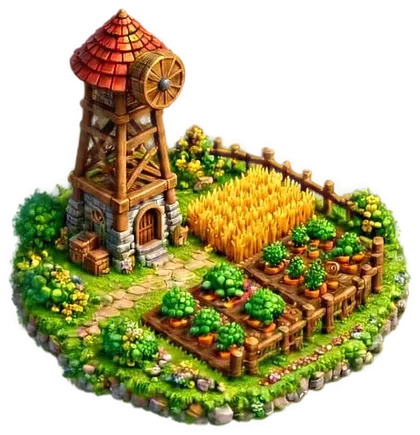
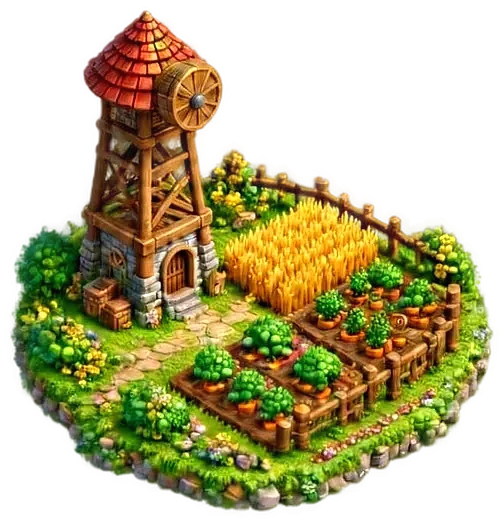
建築外觀商店：5棟建築×萌獸7種樣式，金幣/鑽石購買、可切換、好友看得到；裝飾店改用遊樂場圖；後台可調外觀價格
Claude-Session: https://claude.ai/code/session_011E9LWKbRev5CpXJ2t3WaU7

Changed region(s): [[0.2786, 0.0598, 0.3095, 0.0897]]

diff --git a/index.html b/index.html
@@ -301,6 +301,10 @@ body.lowfx .bird{display:none}
 @keyframes evoShow{to{opacity:1}}
 .evo-txt .btn{margin-top:16px;opacity:0;pointer-events:none;animation:evoShow .4s 3.3s forwards}
 .evo-txt .btn{pointer-events:auto}
+.sktabs{flex-wrap:wrap}.sktabs button{flex:1 0 30%;font-size:13px}
+.skgrid{display:grid;grid-template-columns:repeat(3,1fr);gap:8px;margin-top:8px}
+.skcard{display:flex;flex-direction:column;align-items:center;gap:3px;background:#FFF8EC;border:2.5px solid #E6D9C3;border-radius:14px;padding:6px 4px 8px}
+.skcard img{width:100%;height:84px;object-fit:contain}.skcard b{font-size:13px}.skcard.on{border-color:#3BB273;background:#E8F8EE}
 </style>
 </head>
 <body>
@@ -541,7 +545,19 @@ function sprite(name, gx, gy, w, opt={}){
   const yy = y - h*(opt.foot ?? 0.82);
   return `<image href="${A(name)}" x="${(x-w/2).toFixed(1)}" y="${yy.toFixed(1)}" width="${w}" height="${h.toFixed(1)}" ${opt.cls?`class="${opt.cls}"`:''}/>`;
 }
-const RATIO = {bf_train:564/504, b_shop:690/627, b_farm:522/504, b_academy:690/645, bc_shop:690/594, b_fountain:690/591, b_sail:1,
+/* 建築外觀（萌獸 7 種樣式） */
+const SKIN_R = {"b_academy": 1.0702, "bb_academy": 1.115, "bc_academy": 1.25, "bf_academy": 1.115, "bi_academy": 1.1918, "bj_academy": 1.113, "bl_academy": 1.115, "b_farm": 1.0357, "bb_farm": 1.0317, "bc_farm": 1.0793, "bf_farm": 1.0556, "bi_farm": 1.1327, "bj_farm": 1.0575, "bl_farm": 1.0575, "b_shop": 1.0997, "bb_shop": 1.1268, "bc_shop": 1.1615, "bf_shop": 1.115, "bi_shop": 1.1388, "bj_shop": 1.1189, "bl_shop": 1.1348, "b_fountain": 1.1679, "bb_fountain": 1.1532, "bc_fountain": 1.1228, "bf_fountain": 1.147, "bi_fountain": 1.1429, "bj_fountain": 1.1449, "bl_fountain": 1.1615, "b_train": 1.0774, "bb_train": 1.1151, "bc_train": 1.0884, "bf_train": 1.119, "bi_train": 1.1348, "bj_train": 1.119, "bl_train": 1.1369, "b_play": 1.1599};
+const SKIN_PART = {home:'academy', barn:'farm', shop:'shop', fountain:'fountain', pen:'train'};
+const SKIN_DEF = {home:'b', barn:'b', shop:'b', fountain:'b', pen:'bf'};
+const SKIN_NAME = {b:'原版', bb:'紅磚', bc:'糖果', bf:'森林', bi:'冰雪', bj:'翡翠', bl:'熔岩'};
+const skinImg = (k, st) => (st||SKIN_DEF[k]) + '_' + SKIN_PART[k];
+function skinSprite(k, gx, gy, w, foot){ const [x,y]=iso(gx,gy), img=skinImg(k), h=w*(SKIN_R[img]||1);
+  return `<image class="skin" data-sk="${k}" data-fy="${y}" data-w="${w}" data-foot="${foot}" href="${A(img)}" x="${(x-w/2).toFixed(1)}" y="${(y-h*foot).toFixed(1)}" width="${w}" height="${h.toFixed(1)}"/>`; }
+let skinSig='';
+function applySkins(on){ on=on||{}; const sig=JSON.stringify(on); if(sig===skinSig) return; skinSig=sig;
+  document.querySelectorAll('#world image.skin').forEach(el=>{ const k=el.dataset.sk, img=skinImg(k, on[k]), w=+el.dataset.w, h=w*(SKIN_R[img]||1);
+    el.setAttribute('href', A(img)); el.setAttribute('height', h.toFixed(1)); el.setAttribute('y', (+el.dataset.fy - h*(+el.dataset.foot)).toFixed(1)); }); }
+const RATIO = {b_play:1.1599, bf_train:564/504, b_shop:690/627, b_farm:522/504, b_academy:690/645, bc_shop:690/594, b_fountain:690/591, b_sail:1,
   dc_flower:1, dc_lamp:1, dc_bench:1, dc_pond:1, dc_hay:1, dc_mail:1, dc_kennel:1, dc_lantree:1, dc_swing:1, dc_sakura:1, dc_picnic:1, dc_balloon:1,
   bunny1:396/310, bear1:1, fox1:1, penguin1:1, otter1:1, mouse1:1};
 
@@ -550,7 +566,7 @@ const BLD = [
   {id:'home',  name:'我的家',   img:'b_academy',  c:HG(668,128),  w:290, foot:0.80},
   {id:'shop',  name:'種子商店', img:'b_shop',     c:HG(366,200),  w:230, foot:0.80},
   {id:'barn',  name:'穀倉',     img:'b_farm',     c:HG(930,203),  w:240, foot:0.80},
-  {id:'decor', name:'裝飾店',   img:'bc_shop',    c:HG(322,362),  w:200, foot:0.80, locked:'裝飾店將在第四階段開放'},
+  {id:'decor', name:'裝飾店',   img:'b_play',    c:HG(322,362),  w:200, foot:0.80, locked:'裝飾店將在第四階段開放'},
   {id:'coop',  name:'牧場',     img:'dc_hay',     c:HG(694,560), w:104, foot:0.78, locked:'牧場將在第四階段開放'},
   {id:'pen',   name:'萌獸園',   img:'bf_train',   c:HG(398,552), w:390, foot:0.70, locked:'萌獸園即將開放：之後多出來的萌獸會住在這裡'},
 ];
@@ -672,6 +688,7 @@ function farmerDo(i, kind){
 }
 
 function buildWorld(){
+  skinSig='';
   const W=$('world');
   W.setAttribute('viewBox',`${VX} ${VY} ${WW} ${WH}`);
   seed=11;
@@ -718,7 +735,7 @@ function buildWorld(){
   // 建築
   BLD.forEach(o=>{ if(o.skip) return;
     const [gx,gy]=o.c, h=o.w*(RATIO[o.img]||1);
-    let s = `<ellipse cx="${iso(gx,gy)[0]}" cy="${iso(gx,gy)[1]+4}" rx="${o.w*0.42}" ry="${o.w*0.16}" fill="rgba(0,0,0,.14)"/>` + sprite(o.img, gx, gy, o.w, {ratio:RATIO[o.img], foot:o.foot});
+    let s = `<ellipse cx="${iso(gx,gy)[0]}" cy="${iso(gx,gy)[1]+4}" rx="${o.w*0.42}" ry="${o.w*0.16}" fill="rgba(0,0,0,.14)"/>` + (SKIN_PART[o.id] ? skinSprite(o.id, gx, gy, o.w, o.foot) : sprite(o.img, gx, gy, o.w, {ratio:RATIO[o.img], foot:o.foot}));
     if(o.id==='barn'){ // 風車葉片
       const [x,y]=iso(gx,gy), top=y-h*o.foot; const cx=x-o.w*0.5+o.w*0.235, cy=top+h*0.2;
       s += `<g transform="translate(${cx.toFixed(1)} ${cy.toFixed(1)})"><g class="blades"><image href="${A('b_sail')}" x="-55" y="-55" width="110" height="110"/></g></g>`;
@@ -733,7 +750,7 @@ function buildWorld(){
 
   // 裝飾（萌獸星球素材）
   const deco=(n,gx,gy,w,extra='')=>objs.push({depth:gx+gy, svg:`<g ${extra}>${sprite(n,gx,gy,w,{ratio:RATIO[n],foot:0.8})}</g>`});
-  const FC=HG(645,352); deco('b_fountain', FC[0], FC[1], 150);
+  const FC=HG(645,352); objs.push({depth:FC[0]+FC[1], svg:skinSprite('fountain', FC[0], FC[1], 150, 0.8)});
   [[560,318],[730,318],[560,378],[730,378]].map(([x,y])=>HG(x,y)).forEach(([x,y])=>{ deco('dc_lamp',x,y,46); const [px,py]=iso(x,y); objs.push({depth:x+y+0.01, svg:`<circle class="lampglow" cx="${px}" cy="${py-34}" r="30" fill="url(#gGlow)"/>`}); });
   deco('dc_flower', ...HG(505,262), 58); deco('dc_flower', ...HG(845,300), 52); deco('dc_balloon', ...HG(545,470), 64, 'class="floaty"');
 
@@ -1145,7 +1162,7 @@ function gearDesc(g){ const v=+g.val, pc=Math.round(v*100);
     dog:`小偷來偷菜時 ${pc}% 被趕走`, bug:`蟲一出現 ${pc}% 自動除掉`, weed:`雜草一長出 ${pc}% 自動拔掉`,
     clear:`收成後自動整地（第 1～${v} 塊地）`, harvest:`作物成熟 ${v} 分鐘後自動收成，小偷來不及偷`,
     scare:`別人惡作劇 ${pc}% 被擋下`})[g.func] || ''; }
-function setGearConfig(list, st){ GEAR_LIST = list||[]; GEAR = {}; GEAR_LIST.forEach(g=>GEAR[g.id]=g);
+function setGearConfig(list, st, sk){ if(sk) SKINS=sk; GEAR_LIST = list||[]; GEAR = {}; GEAR_LIST.forEach(g=>GEAR[g.id]=g);
   if(st){ EVO = [+(st.evo_lv2 ?? 10), +(st.evo_lv3 ?? 20)]; } }
 const chrStage = lv => lv>=EVO[1] ? 3 : lv>=EVO[0] ? 2 : 1;
 const chrSpecies = k => (/^([a-z]+)/.exec(k||'bunny')||[0,'bunny'])[1];
@@ -1163,9 +1180,10 @@ function beastPanelHTML(){
     <div class="binfo"><b>${chrName(key)}</b><div class="bnext">${next}</div>
       <button class="gslot" id="hGear">${g?gearImg(g,34):'<span class="plus">＋</span>'}<span><b>${g?gearTitle(g):'裝備欄（空）'}</b><small>${g?`${GEAR_FUNC[g.func][1]} ${GEAR_FUNC[g.func][0]}：${gearDesc(g)}`:'點這裡插上裝備，萌獸會幫你自動做事'}</small></span></button>
     </div></div>
-    <div class="homebtns"><button class="btn sub" id="hCh">🐾 更換萌獸</button><button class="btn o" id="hGshop">🛒 買裝備</button></div>`;
+    <div class="homebtns"><button class="btn sub" id="hCh">🐾 更換萌獸</button><button class="btn o" id="hGshop">🛒 買裝備</button></div>
+    <div class="homebtns"><button class="btn" id="hSkin" style="background:#FF8FB1;box-shadow:0 3px 0 #D9628A">🏠 建築外觀</button></div>`;
 }
-function bindBeastPanel(){ $('hGear').onclick=openGearBag; $('hCh').onclick=openCharPicker; $('hGshop').onclick=()=>openGearShop(); }
+function bindBeastPanel(){ $('hSkin').onclick=()=>openSkinShop(); $('hGear').onclick=openGearBag; $('hCh').onclick=openCharPicker; $('hGshop').onclick=()=>openGearShop(); }
 
 /* 裝備背包 */
 function openGearBag(){
@@ -1241,6 +1259,27 @@ function checkEvolve(){
   let prev=null; try{ prev=+localStorage.getItem(k)||null; }catch(e){}
   if(prev && st>prev){ const sp=chrSpecies(S.me.chara); setTimeout(()=>playEvolve(sp+prev, sp+st), 900); }
   try{ localStorage.setItem(k, st); }catch(e){}
+}
+
+/* ================= 建築外觀商店 ================= */
+let SKINS = [], skinTab = 'home';
+const SKIN_BLD = {home:'我的家', barn:'穀倉', shop:'種子商店', fountain:'噴水池', pen:'萌獸園'};
+function openSkinShop(t){
+  if(mode==='visit') return toast('回到自己的農場才能換外觀');
+  if(t) skinTab=t;
+  const me=S.me, owned=me.skins||{}, on=(me.skin_on||{})[skinTab]||SKIN_DEF[skinTab];
+  const tabs=`<div class="tabs sktabs">${Object.keys(SKIN_BLD).map(k=>`<button data-skt="${k}" class="${skinTab===k?'on':''}">${SKIN_BLD[k]}</button>`).join('')}</div>`;
+  const styles=[SKIN_DEF[skinTab], ...SKINS.filter(x=>x.bld===skinTab).map(x=>x.style)];
+  const body=tabs+`<div class="skgrid">${styles.map(st=>{ const def=st===SKIN_DEF[skinTab], k=SKINS.find(x=>x.bld===skinTab&&x.style===st), have=def||owned[skinTab+'_'+st], cur=st===on;
+    const price = k ? (k.gold!=null?`${k.gold.toLocaleString()} 金`:`💎${k.gems}`) : '';
+    return `<div class="skcard${cur?' on':''}"><img src="${A('th_'+st+'_'+SKIN_PART[skinTab])}" alt=""><b>${def?'預設':(k?k.name:SKIN_NAME[st])}</b>
+      ${cur?'<span class="tag" style="background:#E8F8EE;color:#2E9660">使用中</span>':have?`<button class="mini" data-skuse="${def?'def':st}">套用</button>`:`<button class="mini ${k&&k.gems!=null?'gem':''}" data-skbuy="${k.id}" ${(k.gold!=null?me.gold<k.gold:(me.gems||0)<k.gems)?'disabled':''}>${price}</button>`}</div>`; }).join('')}</div>
+    <div class="hint" style="text-align:center;margin-top:8px">買過的外觀可以隨時免費切換，好友來拜訪也看得到</div>`;
+  modal(`建築外觀　<span style="font-size:14px;color:var(--ink2)">${me.gold.toLocaleString()} 金・💎${(me.gems||0).toLocaleString()}</span>`, body);
+  const md=$('md');
+  md.querySelectorAll('[data-skt]').forEach(b=>b.onclick=()=>openSkinShop(b.dataset.skt));
+  md.querySelectorAll('[data-skuse]').forEach(b=>b.onclick=async()=>{ try{ applyState(await rpc('farm_set_skin',{p_bld:skinTab,p_style:b.dataset.skuse})); refresh(); sfx('coin'); openSkinShop(); }catch(e){ toast(e.message); } });
+  md.querySelectorAll('[data-skbuy]').forEach(b=>b.onclick=async()=>{ try{ applyState(await rpc('farm_buy_skin',{p_id:b.dataset.skbuy})); refresh(); fxConfetti(); sfx('lvup'); toast('外觀已套用！'); openSkinShop(); }catch(e){ toast(e.message); } });
 }
 
 /* ================= 連線設定 ================= */
@@ -1680,7 +1719,7 @@ function renderHUD(){
   else h='作物正在長大中…去<b>好友布告欄</b>看看誰的菜可以偷';
   $('hint').innerHTML = `<span>🌱</span><span>${h}</span>`;
 }
-function refresh(){ renderPlots(); renderHUD(); try{ if(mode==='visit' && V) setFarmer(chrKey(V.owner.chara, V.owner.lv), V.owner.equip); else if(S) setFarmer(chrKey(S.me.chara, S.me.lv), S.me.equip); checkEvolve(); }catch(e){} }
+function refresh(){ renderPlots(); renderHUD(); try{ if(mode==='visit' && V){ setFarmer(chrKey(V.owner.chara, V.owner.lv), V.owner.equip); applySkins(V.owner.skin_on); } else if(S){ setFarmer(chrKey(S.me.chara, S.me.lv), S.me.equip); applySkins(S.me.skin_on); } checkEvolve(); }catch(e){} }
 
 /* ================= 同步 ================= */
 let syncing = false;
@@ -1766,7 +1805,7 @@ async function loadConfig(){
     const c = await rpc('farm_config');
     c.crops.forEach(x=>{ const k = CROP[x.id]; if(k) Object.assign(k, {lv:x.lv, seed:x.seed, time:x.time, yield:x.yield, price:x.price, exp:x.exp}); });
     c.land.forEach(l=>{ LAND[l.idx] = {lv:l.lv, cost:l.cost}; });
-    setGearConfig(c.gear, c.settings);
+    setGearConfig(c.gear, c.settings, c.skins);
   }catch(e){}
 }
 async function showNotices(){

diff --git a/src/town.js b/src/town.js
@@ -37,7 +37,19 @@ function sprite(name, gx, gy, w, opt={}){
   const yy = y - h*(opt.foot ?? 0.82);
   return `<image href="${A(name)}" x="${(x-w/2).toFixed(1)}" y="${yy.toFixed(1)}" width="${w}" height="${h.toFixed(1)}" ${opt.cls?`class="${opt.cls}"`:''}/>`;
 }
-const RATIO = {bf_train:564/504, b_shop:690/627, b_farm:522/504, b_academy:690/645, bc_shop:690/594, b_fountain:690/591, b_sail:1,
+/* 建築外觀（萌獸 7 種樣式） */
+const SKIN_R = {"b_academy": 1.0702, "bb_academy": 1.115, "bc_academy": 1.25, "bf_academy": 1.115, "bi_academy": 1.1918, "bj_academy": 1.113, "bl_academy": 1.115, "b_farm": 1.0357, "bb_farm": 1.0317, "bc_farm": 1.0793, "bf_farm": 1.0556, "bi_farm": 1.1327, "bj_farm": 1.0575, "bl_farm": 1.0575, "b_shop": 1.0997, "bb_shop": 1.1268, "bc_shop": 1.1615, "bf_shop": 1.115, "bi_shop": 1.1388, "bj_shop": 1.1189, "bl_shop": 1.1348, "b_fountain": 1.1679, "bb_fountain": 1.1532, "bc_fountain": 1.1228, "bf_fountain": 1.147, "bi_fountain": 1.1429, "bj_fountain": 1.1449, "bl_fountain": 1.1615, "b_train": 1.0774, "bb_train": 1.1151, "bc_train": 1.0884, "bf_train": 1.119, "bi_train": 1.1348, "bj_train": 1.119, "bl_train": 1.1369, "b_play": 1.1599};
+const SKIN_PART = {home:'academy', barn:'farm', shop:'shop', fountain:'fountain', pen:'train'};
+const SKIN_DEF = {home:'b', barn:'b', shop:'b', fountain:'b', pen:'bf'};
+const SKIN_NAME = {b:'原版', bb:'紅磚', bc:'糖果', bf:'森林', bi:'冰雪', bj:'翡翠', bl:'熔岩'};
+const skinImg = (k, st) => (st||SKIN_DEF[k]) + '_' + SKIN_PART[k];
+function skinSprite(k, gx, gy, w, foot){ const [x,y]=iso(gx,gy), img=skinImg(k), h=w*(SKIN_R[img]||1);
+  return `<image class="skin" data-sk="${k}" data-fy="${y}" data-w="${w}" data-foot="${foot}" href="${A(img)}" x="${(x-w/2).toFixed(1)}" y="${(y-h*foot).toFixed(1)}" width="${w}" height="${h.toFixed(1)}"/>`; }
+let skinSig='';
+function applySkins(on){ on=on||{}; const sig=JSON.stringify(on); if(sig===skinSig) return; skinSig=sig;
+  document.querySelectorAll('#world image.skin').forEach(el=>{ const k=el.dataset.sk, img=skinImg(k, on[k]), w=+el.dataset.w, h=w*(SKIN_R[img]||1);
+    el.setAttribute('href', A(img)); el.setAttribute('height', h.toFixed(1)); el.setAttribute('y', (+el.dataset.fy - h*(+el.dataset.foot)).toFixed(1)); }); }
+const RATIO = {b_play:1.1599, bf_train:564/504, b_shop:690/627, b_farm:522/504, b_academy:690/645, bc_shop:690/594, b_fountain:690/591, b_sail:1,
   dc_flower:1, dc_lamp:1, dc_bench:1, dc_pond:1, dc_hay:1, dc_mail:1, dc_kennel:1, dc_lantree:1, dc_swing:1, dc_sakura:1, dc_picnic:1, dc_balloon:1,
   bunny1:396/310, bear1:1, fox1:1, penguin1:1, otter1:1, mouse1:1};
 
@@ -46,7 +58,7 @@ const BLD = [
   {id:'home',  name:'我的家',   img:'b_academy',  c:HG(668,128),  w:290, foot:0.80},
   {id:'shop',  name:'種子商店', img:'b_shop',     c:HG(366,200),  w:230, foot:0.80},
   {id:'barn',  name:'穀倉',     img:'b_farm',     c:HG(930,203),  w:240, foot:0.80},
-  {id:'decor', name:'裝飾店',   img:'bc_shop',    c:HG(322,362),  w:200, foot:0.80, locked:'裝飾店將在第四階段開放'},
+  {id:'decor', name:'裝飾店',   img:'b_play',    c:HG(322,362),  w:200, foot:0.80, locked:'裝飾店將在第四階段開放'},
   {id:'coop',  name:'牧場',     img:'dc_hay',     c:HG(694,560), w:104, foot:0.78, locked:'牧場將在第四階段開放'},
   {id:'pen',   name:'萌獸園',   img:'bf_train',   c:HG(398,552), w:390, foot:0.70, locked:'萌獸園即將開放：之後多出來的萌獸會住在這裡'},
 ];
@@ -168,6 +180,7 @@ function farmerDo(i, kind){
 }
 
 function buildWorld(){
+  skinSig='';
   const W=$('world');
   W.setAttribute('viewBox',`${VX} ${VY} ${WW} ${WH}`);
   seed=11;
@@ -214,7 +227,7 @@ function buildWorld(){
   // 建築
   BLD.forEach(o=>{ if(o.skip) return;
     const [gx,gy]=o.c, h=o.w*(RATIO[o.img]||1);
-    let s = `<ellipse cx="${iso(gx,gy)[0]}" cy="${iso(gx,gy)[1]+4}" rx="${o.w*0.42}" ry="${o.w*0.16}" fill="rgba(0,0,0,.14)"/>` + sprite(o.img, gx, gy, o.w, {ratio:RATIO[o.img], foot:o.foot});
+    let s = `<ellipse cx="${iso(gx,gy)[0]}" cy="${iso(gx,gy)[1]+4}" rx="${o.w*0.42}" ry="${o.w*0.16}" fill="rgba(0,0,0,.14)"/>` + (SKIN_PART[o.id] ? skinSprite(o.id, gx, gy, o.w, o.foot) : sprite(o.img, gx, gy, o.w, {ratio:RATIO[o.img], foot:o.foot}));
     if(o.id==='barn'){ // 風車葉片
       const [x,y]=iso(gx,gy), top=y-h*o.foot; const cx=x-o.w*0.5+o.w*0.235, cy=top+h*0.2;
       s += `<g transform="translate(${cx.toFixed(1)} ${cy.toFixed(1)})"><g class="blades"><image href="${A('b_sail')}" x="-55" y="-55" width="110" height="110"/></g></g>`;
@@ -229,7 +242,7 @@ function buildWorld(){
 
   // 裝飾（萌獸星球素材）
   const deco=(n,gx,gy,w,extra='')=>objs.push({depth:gx+gy, svg:`<g ${extra}>${sprite(n,gx,gy,w,{ratio:RATIO[n],foot:0.8})}</g>`});
-  const FC=HG(645,352); deco('b_fountain', FC[0], FC[1], 150);
+  const FC=HG(645,352); objs.push({depth:FC[0]+FC[1], svg:skinSprite('fountain', FC[0], FC[1], 150, 0.8)});
   [[560,318],[730,318],[560,378],[730,378]].map(([x,y])=>HG(x,y)).forEach(([x,y])=>{ deco('dc_lamp',x,y,46); const [px,py]=iso(x,y); objs.push({depth:x+y+0.01, svg:`<circle class="lampglow" cx="${px}" cy="${py-34}" r="30" fill="url(#gGlow)"/>`}); });
   deco('dc_flower', ...HG(505,262), 58); deco('dc_flower', ...HG(845,300), 52); deco('dc_balloon', ...HG(545,470), 64, 'class="floaty"');
 

diff --git a/src/gear.js b/src/gear.js
@@ -9,7 +9,7 @@ function gearDesc(g){ const v=+g.val, pc=Math.round(v*100);
     dog:`小偷來偷菜時 ${pc}% 被趕走`, bug:`蟲一出現 ${pc}% 自動除掉`, weed:`雜草一長出 ${pc}% 自動拔掉`,
     clear:`收成後自動整地（第 1～${v} 塊地）`, harvest:`作物成熟 ${v} 分鐘後自動收成，小偷來不及偷`,
     scare:`別人惡作劇 ${pc}% 被擋下`})[g.func] || ''; }
-function setGearConfig(list, st){ GEAR_LIST = list||[]; GEAR = {}; GEAR_LIST.forEach(g=>GEAR[g.id]=g);
+function setGearConfig(list, st, sk){ if(sk) SKINS=sk; GEAR_LIST = list||[]; GEAR = {}; GEAR_LIST.forEach(g=>GEAR[g.id]=g);
   if(st){ EVO = [+(st.evo_lv2 ?? 10), +(st.evo_lv3 ?? 20)]; } }
 const chrStage = lv => lv>=EVO[1] ? 3 : lv>=EVO[0] ? 2 : 1;
 const chrSpecies = k => (/^([a-z]+)/.exec(k||'bunny')||[0,'bunny'])[1];
@@ -27,9 +27,10 @@ function beastPanelHTML(){
     <div class="binfo"><b>${chrName(key)}</b><div class="bnext">${next}</div>
       <button class="gslot" id="hGear">${g?gearImg(g,34):'<span class="plus">＋</span>'}<span><b>${g?gearTitle(g):'裝備欄（空）'}</b><small>${g?`${GEAR_FUNC[g.func][1]} ${GEAR_FUNC[g.func][0]}：${gearDesc(g)}`:'點這裡插上裝備，萌獸會幫你自動做事'}</small></span></button>
     </div></div>
-    <div class="homebtns"><button class="btn sub" id="hCh">🐾 更換萌獸</button><button class="btn o" id="hGshop">🛒 買裝備</button></div>`;
+    <div class="homebtns"><button class="btn sub" id="hCh">🐾 更換萌獸</button><button class="btn o" id="hGshop">🛒 買裝備</button></div>
+    <div class="homebtns"><button class="btn" id="hSkin" style="background:#FF8FB1;box-shadow:0 3px 0 #D9628A">🏠 建築外觀</button></div>`;
 }
-function bindBeastPanel(){ $('hGear').onclick=openGearBag; $('hCh').onclick=openCharPicker; $('hGshop').onclick=()=>openGearShop(); }
+function bindBeastPanel(){ $('hSkin').onclick=()=>openSkinShop(); $('hGear').onclick=openGearBag; $('hCh').onclick=openCharPicker; $('hGshop').onclick=()=>openGearShop(); }
 
 /* 裝備背包 */
 function openGearBag(){
@@ -105,4 +106,25 @@ function checkEvolve(){
   let prev=null; try{ prev=+localStorage.getItem(k)||null; }catch(e){}
   if(prev && st>prev){ const sp=chrSpecies(S.me.chara); setTimeout(()=>playEvolve(sp+prev, sp+st), 900); }
   try{ localStorage.setItem(k, st); }catch(e){}
+}
+
+/* ================= 建築外觀商店 ================= */
+let SKINS = [], skinTab = 'home';
+const SKIN_BLD = {home:'我的家', barn:'穀倉', shop:'種子商店', fountain:'噴水池', pen:'萌獸園'};
+function openSkinShop(t){
+  if(mode==='visit') return toast('回到自己的農場才能換外觀');
+  if(t) skinTab=t;
+  const me=S.me, owned=me.skins||{}, on=(me.skin_on||{})[skinTab]||SKIN_DEF[skinTab];
+  const tabs=`<div class="tabs sktabs">${Object.keys(SKIN_BLD).map(k=>`<button data-skt="${k}" class="${skinTab===k?'on':''}">${SKIN_BLD[k]}</button>`).join('')}</div>`;
+  const styles=[SKIN_DEF[skinTab], ...SKINS.filter(x=>x.bld===skinTab).map(x=>x.style)];
+  const body=tabs+`<div class="skgrid">${styles.map(st=>{ const def=st===SKIN_DEF[skinTab], k=SKINS.find(x=>x.bld===skinTab&&x.style===st), have=def||owned[skinTab+'_'+st], cur=st===on;
+    const price = k ? (k.gold!=null?`${k.gold.toLocaleString()} 金`:`💎${k.gems}`) : '';
+    return `<div class="skcard${cur?' on':''}"><img src="${A('th_'+st+'_'+SKIN_PART[skinTab])}" alt=""><b>${def?'預設':(k?k.name:SKIN_NAME[st])}</b>
+      ${cur?'<span class="tag" style="background:#E8F8EE;color:#2E9660">使用中</span>':have?`<button class="mini" data-skuse="${def?'def':st}">套用</button>`:`<button class="mini ${k&&k.gems!=null?'gem':''}" data-skbuy="${k.id}" ${(k.gold!=null?me.gold<k.gold:(me.gems||0)<k.gems)?'disabled':''}>${price}</button>`}</div>`; }).join('')}</div>
+    <div class="hint" style="text-align:center;margin-top:8px">買過的外觀可以隨時免費切換，好友來拜訪也看得到</div>`;
+  modal(`建築外觀　<span style="font-size:14px;color:var(--ink2)">${me.gold.toLocaleString()} 金・💎${(me.gems||0).toLocaleString()}</span>`, body);
+  const md=$('md');
+  md.querySelectorAll('[data-skt]').forEach(b=>b.onclick=()=>openSkinShop(b.dataset.skt));
+  md.querySelectorAll('[data-skuse]').forEach(b=>b.onclick=async()=>{ try{ applyState(await rpc('farm_set_skin',{p_bld:skinTab,p_style:b.dataset.skuse})); refresh(); sfx('coin'); openSkinShop(); }catch(e){ toast(e.message); } });
+  md.querySelectorAll('[data-skbuy]').forEach(b=>b.onclick=async()=>{ try{ applyState(await rpc('farm_buy_skin',{p_id:b.dataset.skbuy})); refresh(); fxConfetti(); sfx('lvup'); toast('外觀已套用！'); openSkinShop(); }catch(e){ toast(e.message); } });
 }

diff --git a/admin.html b/admin.html
@@ -171,10 +171,16 @@ async function pageCf(){
     ${(C.gear||[]).map(g=>`<tr><td><img src="assets/${g.icon}.webp" style="width:34px;height:34px;object-fit:contain;vertical-align:middle"> ${['','I','II','III','IV'][g.tier]}</td><td>${({plant:'自動播種',water:'自動澆水',dog:'看門狗',bug:'自動除蟲',weed:'自動除草',clear:'自動剷除',harvest:'自動收成',scare:'稻草人'})[g.func]}</td>
       <td><input id="g_${g.id}_name" value="${esc(g.name)}" style="width:7em"></td><td><input class="num" id="g_${g.id}_val" type="number" step="any" value="${g.val}"></td>
       <td><input class="num" id="g_${g.id}_gold" type="number" value="${g.gold??''}"></td><td><input class="num" id="g_${g.id}_gems" type="number" value="${g.gems??''}"></td>
-      <td><input class="num" id="g_${g.id}_lv" type="number" value="${g.lv}"></td><td><button class="btn" data-gid="${g.id}">儲存</button></td></tr>`).join('')}</table></div>`);
+      <td><input class="num" id="g_${g.id}_lv" type="number" value="${g.lv}"></td><td><button class="btn" data-gid="${g.id}">儲存</button></td></tr>`).join('')}</table></div>
+    <div class="card"><h2>建築外觀</h2><div class="muted" style="margin-bottom:8px">金幣價和鑽石價擇一填；兩個都留空＝不能購買。</div>
+    <table><tr><th>外觀</th><th>建築</th><th>名稱</th><th>金幣價</th><th>鑽石價</th><th></th></tr>
+    ${(C.skins||[]).map(k=>`<tr><td><img src="assets/th_${k.style}_${({home:'academy',barn:'farm',shop:'shop',fountain:'fountain',pen:'train'})[k.bld]}.webp" style="width:40px;height:40px;object-fit:contain"></td><td>${({home:'我的家',barn:'穀倉',shop:'種子商店',fountain:'噴水池',pen:'萌獸園'})[k.bld]}</td>
+      <td><input id="k_${k.id}_name" value="${esc(k.name)}" style="width:6em"></td><td><input class="num" id="k_${k.id}_gold" type="number" value="${k.gold??''}"></td><td><input class="num" id="k_${k.id}_gems" type="number" value="${k.gems??''}"></td><td><button class="btn" data-kid="${k.id}">儲存</button></td></tr>`).join('')}</table></div>`);
   document.querySelectorAll('[data-sk]').forEach(b=>b.onclick=async()=>{ try{ await rpc('adm_setting_set',{p_key:b.dataset.sk,p_value:+$('s_'+b.dataset.sk).value}); toast('已儲存'); }catch(e){ toast(e.message); } });
   document.querySelectorAll('[data-cid]').forEach(b=>b.onclick=async()=>{ const id=b.dataset.cid, v=f=>+$(`c_${id}_${f}`).value;
     try{ await rpc('adm_crop_save',{p_id:id,p_seed:v('seed'),p_grow_sec:v('grow_sec'),p_yield:v('yield'),p_price:v('price'),p_exp:v('exp'),p_lv:v('lv')}); toast('已儲存'); }catch(e){ toast(e.message); } });
+  document.querySelectorAll('[data-kid]').forEach(b=>b.onclick=async()=>{ const id=b.dataset.kid, v=f=>$(`k_${id}_${f}`).value, n=f=>v(f)===''?null:+v(f);
+    try{ await rpc('adm_skin_save',{p_id:id,p_name:v('name'),p_gold:n('gold'),p_gems:n('gems')}); toast('已儲存'); }catch(e){ toast(e.message); } });
   document.querySelectorAll('[data-gid]').forEach(b=>b.onclick=async()=>{ const id=b.dataset.gid, v=f=>$(`g_${id}_${f}`).value, n=f=>v(f)===''?null:+v(f);
     try{ await rpc('adm_gear_save',{p_id:id,p_name:v('name'),p_val:+v('val'),p_gold:n('gold'),p_gems:n('gems'),p_lv:+v('lv')}); toast('已儲存'); }catch(e){ toast(e.message); } });
   document.querySelectorAll('[data-li]').forEach(b=>b.onclick=async()=>{ const i=b.dataset.li;

diff --git a/src/logic.js b/src/logic.js
@@ -436,7 +436,7 @@ function renderHUD(){
   else h='作物正在長大中…去<b>好友布告欄</b>看看誰的菜可以偷';
   $('hint').innerHTML = `<span>🌱</span><span>${h}</span>`;
 }
-function refresh(){ renderPlots(); renderHUD(); try{ if(mode==='visit' && V) setFarmer(chrKey(V.owner.chara, V.owner.lv), V.owner.equip); else if(S) setFarmer(chrKey(S.me.chara, S.me.lv), S.me.equip); checkEvolve(); }catch(e){} }
+function refresh(){ renderPlots(); renderHUD(); try{ if(mode==='visit' && V){ setFarmer(chrKey(V.owner.chara, V.owner.lv), V.owner.equip); applySkins(V.owner.skin_on); } else if(S){ setFarmer(chrKey(S.me.chara, S.me.lv), S.me.equip); applySkins(S.me.skin_on); } checkEvolve(); }catch(e){} }
 
 /* ================= 同步 ================= */
 let syncing = false;
@@ -522,7 +522,7 @@ async function loadConfig(){
     const c = await rpc('farm_config');
     c.crops.forEach(x=>{ const k = CROP[x.id]; if(k) Object.assign(k, {lv:x.lv, seed:x.seed, time:x.time, yield:x.yield, price:x.price, exp:x.exp}); });
     c.land.forEach(l=>{ LAND[l.idx] = {lv:l.lv, cost:l.cost}; });
-    setGearConfig(c.gear, c.settings);
+    setGearConfig(c.gear, c.settings, c.skins);
   }catch(e){}
 }
 async function showNotices(){

diff --git a/src/head.html b/src/head.html
@@ -301,6 +301,10 @@ body.lowfx .bird{display:none}
 @keyframes evoShow{to{opacity:1}}
 .evo-txt .btn{margin-top:16px;opacity:0;pointer-events:none;animation:evoShow .4s 3.3s forwards}
 .evo-txt .btn{pointer-events:auto}
+.sktabs{flex-wrap:wrap}.sktabs button{flex:1 0 30%;font-size:13px}
+.skgrid{display:grid;grid-template-columns:repeat(3,1fr);gap:8px;margin-top:8px}
+.skcard{display:flex;flex-direction:column;align-items:center;gap:3px;background:#FFF8EC;border:2.5px solid #E6D9C3;border-radius:14px;padding:6px 4px 8px}
+.skcard img{width:100%;height:84px;object-fit:contain}.skcard b{font-size:13px}.skcard.on{border-color:#3BB273;background:#E8F8EE}
 </style>
 </head>
 <body>
